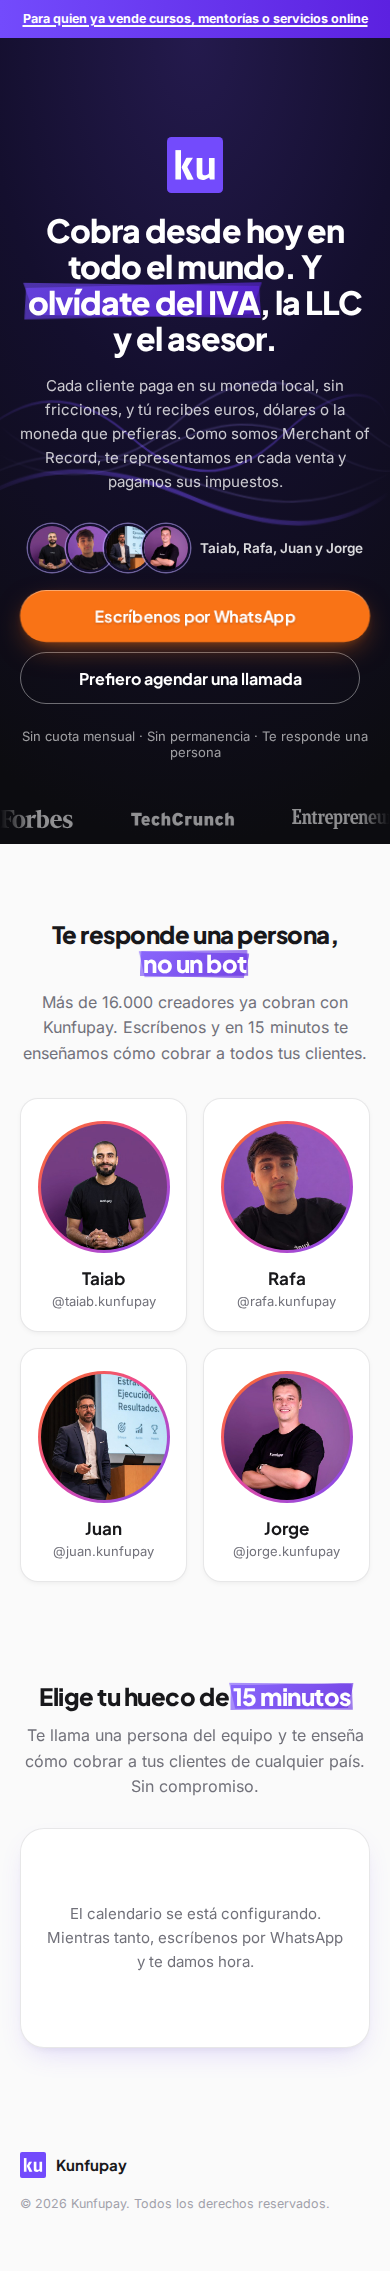
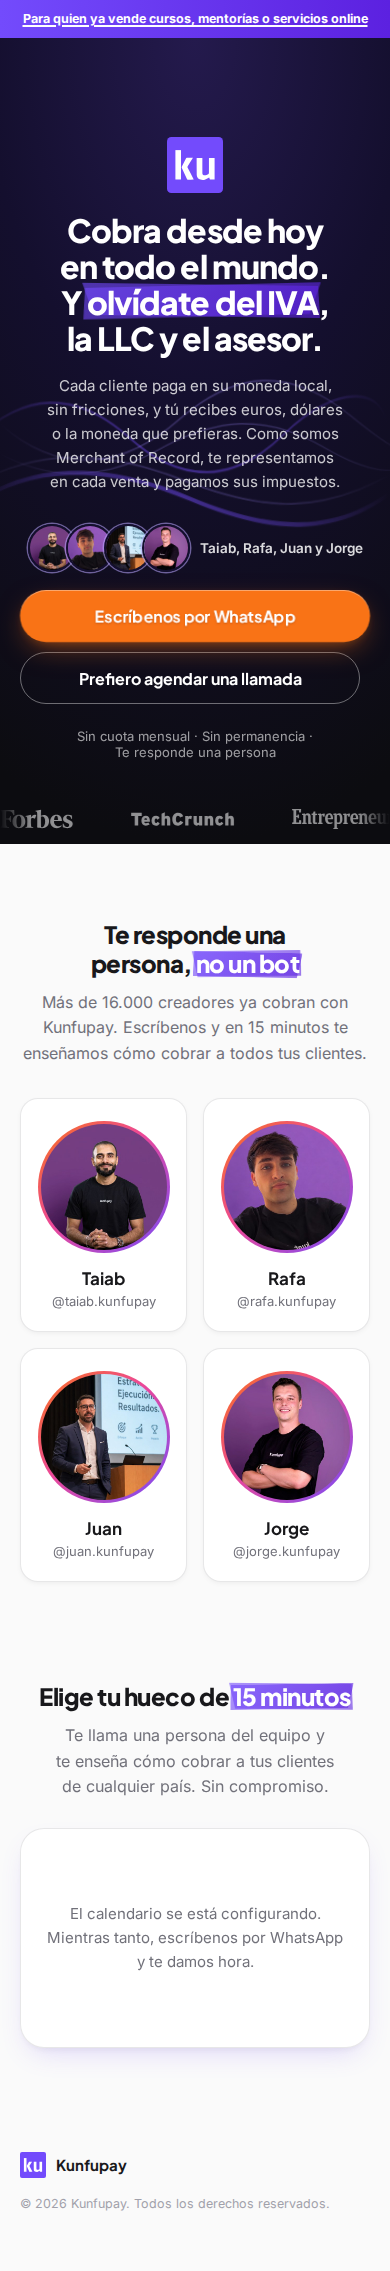
Landing vendedores: renglones parejos en titular, subtítulo y títulos
Claude-Session: https://claude.ai/code/session_01CrG1buW4YQaBwXCV6dNp28

diff --git a/landings/vendedores/v1/index.html b/landings/vendedores/v1/index.html
@@ -1650,6 +1650,18 @@ section.trust { display: none; }
 }
 .kf-cal iframe { display: block; width: 100%; height: 720px; border: 0; }
 .kf-cal__vacio { padding: 32px 24px; text-align: center; color: var(--kf-text-muted); font-size: 15px; line-height: 1.6; max-width: 460px; }
+
+/* Renglones parejos: el navegador reparte el texto para que ninguna línea
+   quede mucho más larga o más corta que las demás (titular, subtítulo,
+   topbar y títulos de sección). */
+.hero h1, .hero-subtitle, .topbar p, h2.section-title, .section-lead, .hero-microtrust { text-wrap: balance; }
+.hero h1 { max-width: 1040px; margin-left: auto; margin-right: auto; }
+@media (min-width: 900px) { .hero h1 { font-size: 50px; } }
+.hero-subtitle { max-width: 620px; margin-left: auto; margin-right: auto; }
+/* Titular en dos frases: cada una en su bloque y repartida en renglones
+   parejos. La coma va pegada al subrayado para que nunca abra renglón. */
+.hero h1 .kf-l { display: block; text-wrap: balance; }
+.kf-nw { white-space: nowrap; }
 </style>
 </head>
 <body>
@@ -1749,7 +1761,7 @@ height="0" width="0" style="display:none;visibility:hidden"></iframe></noscript>
 
   <div class="wrap">
     <img class="hero-logo" src="/landings-assets/logo.svg" alt="Kunfupay">
-    <h1>Cobra desde hoy en todo el mundo. Y <span class="highlight" style="--tilt:-1.4deg">olvídate del IVA</span>, la LLC y el asesor.</h1>
+    <h1><span class="kf-l">Cobra desde hoy en todo el mundo.</span> <span class="kf-l">Y&nbsp;<span class="kf-nw"><span class="highlight" style="--tilt:-1.4deg">olvídate del IVA</span>,</span> la&nbsp;LLC y&nbsp;el&nbsp;asesor.</span></h1>
     <p class="hero-subtitle">Cada cliente paga en su moneda local, sin fricciones, y tú recibes euros, dólares o la moneda que prefieras. Como somos Merchant of Record, te representamos en cada venta y pagamos sus impuestos.</p>
 
     <!-- HERO VARIANTE (a) — CTA DIRECTO, sin formulario. Súper-CTA naranja a
@@ -1767,7 +1779,7 @@ height="0" width="0" style="display:none;visibility:hidden"></iframe></noscript>
         <a href="#agenda" class="btn btn-secundario" id="kf-agendar-btn">Prefiero agendar una llamada</a>
       </div>
 
-      <p class="hero-microtrust">Sin cuota mensual · Sin permanencia · Te responde una persona</p>
+      <p class="hero-microtrust">Sin cuota mensual&nbsp;· Sin permanencia&nbsp;· Te responde una persona</p>
     </div>
 
       </div>
